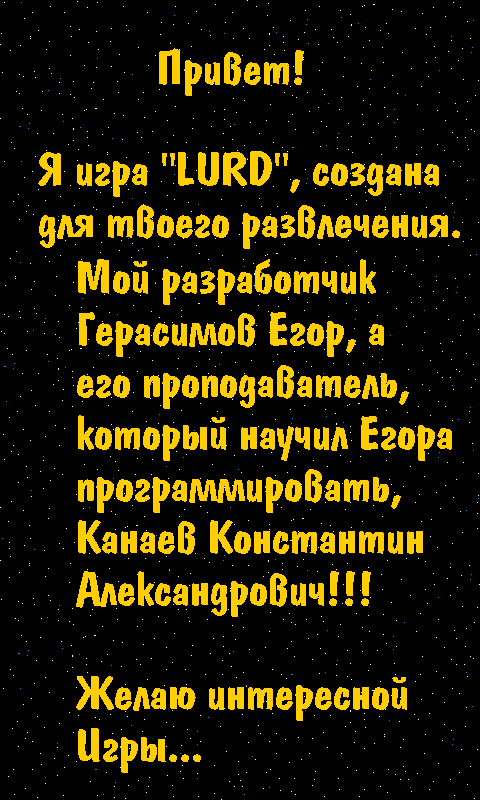
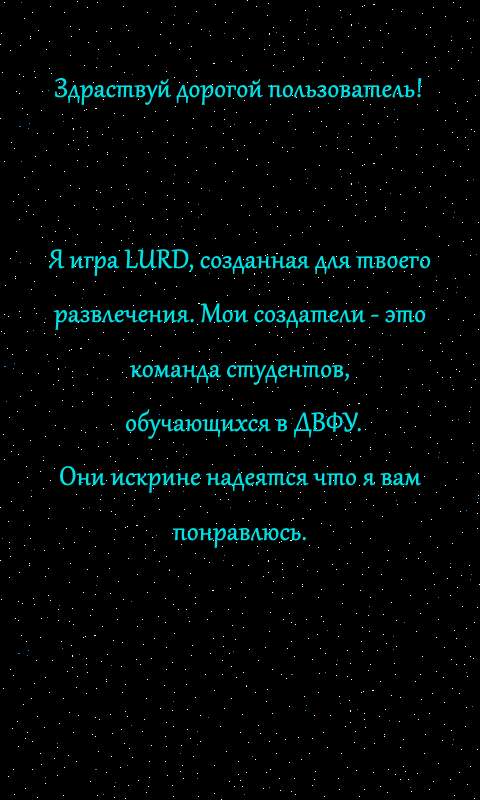
19/04/17 - interface
lol

diff --git a/core/src/com/lurd/game/screens/StartScreen.java b/core/src/com/lurd/game/screens/StartScreen.java
@@ -33,7 +33,7 @@ public class StartScreen implements Screen {
         indexHight = Gdx.graphics.getHeight()/800;
         indexWeght = Gdx.graphics.getWidth()/480;
 
-        stage.addActor(Logo = new Button("Start1.png", -Gdx.graphics.getWidth(), Gdx.graphics.getHeight(), Gdx.graphics.getWidth()*3, Gdx.graphics.getHeight()/2));
+        stage.addActor(Logo = new Button("Logo0.png", -Gdx.graphics.getWidth(), Gdx.graphics.getHeight(), Gdx.graphics.getWidth()*3, Gdx.graphics.getHeight()/2));
         Logo.addAction(Actions.moveTo(Gdx.graphics.getWidth() / 7, Gdx.graphics.getHeight() / 2, 0.5f));
         Logo.addAction(Actions.sizeTo(Gdx.graphics.getWidth() - (Gdx.graphics.getWidth() / 3.5f), Gdx.graphics.getHeight() / 4, 0.5f));
 
@@ -77,9 +77,7 @@ public class StartScreen implements Screen {
                 GerGame.addAction(Actions.moveTo((Gdx.graphics.getWidth() - (Gdx.graphics.getWidth() / 2.5f)) / 2, Gdx.graphics.getHeight() / 3, 0.5f));
 
         }
-       if(del==100){
-           Logo.setTexture("Start2.png");
-       }
+
 
         del++;
         if(del%200==0){

diff --git a/core/src/com/lurd/game/screens/DeadMenuScreen.java b/core/src/com/lurd/game/screens/DeadMenuScreen.java
@@ -41,7 +41,7 @@ public class DeadMenuScreen implements Screen {
         stage = new Stage();
         mycolor = new Color(0, 225, 228, 1);
 
-        generator = new FreeTypeFontGenerator(Gdx.files.internal("10369.ttf"));
+        generator = new FreeTypeFontGenerator(Gdx.files.internal("1234.ttf"));
         parameter = new FreeTypeFontGenerator.FreeTypeFontParameter();
         parameter.color = mycolor;
         parameter.size= Gdx.graphics.getWidth() / 17;

diff --git a/core/src/com/lurd/game/screens/GameScreen.java b/core/src/com/lurd/game/screens/GameScreen.java
@@ -84,7 +84,7 @@ public class GameScreen implements Screen {
         core.pause = true;
         touchPause = true;
 
-        generator = new FreeTypeFontGenerator(Gdx.files.internal("10369.ttf"));
+        generator = new FreeTypeFontGenerator(Gdx.files.internal("1234.ttf"));
         parameter = new FreeTypeFontGenerator.FreeTypeFontParameter();
         parameter.color = mycolor;
         parameter.size= Gdx.graphics.getWidth() / 24;

diff --git a/core/src/com/lurd/game/screens/MainMenuScreen.java b/core/src/com/lurd/game/screens/MainMenuScreen.java
@@ -51,7 +51,7 @@ public class MainMenuScreen implements Screen {
 
 
 
-        generator = new FreeTypeFontGenerator(Gdx.files.internal("10369.ttf"));
+        generator = new FreeTypeFontGenerator(Gdx.files.internal("1234.ttf"));
         parameter = new FreeTypeFontGenerator.FreeTypeFontParameter();
         parameter.color = mycolor;
         parameter.size= Gdx.graphics.getWidth() / 17;
